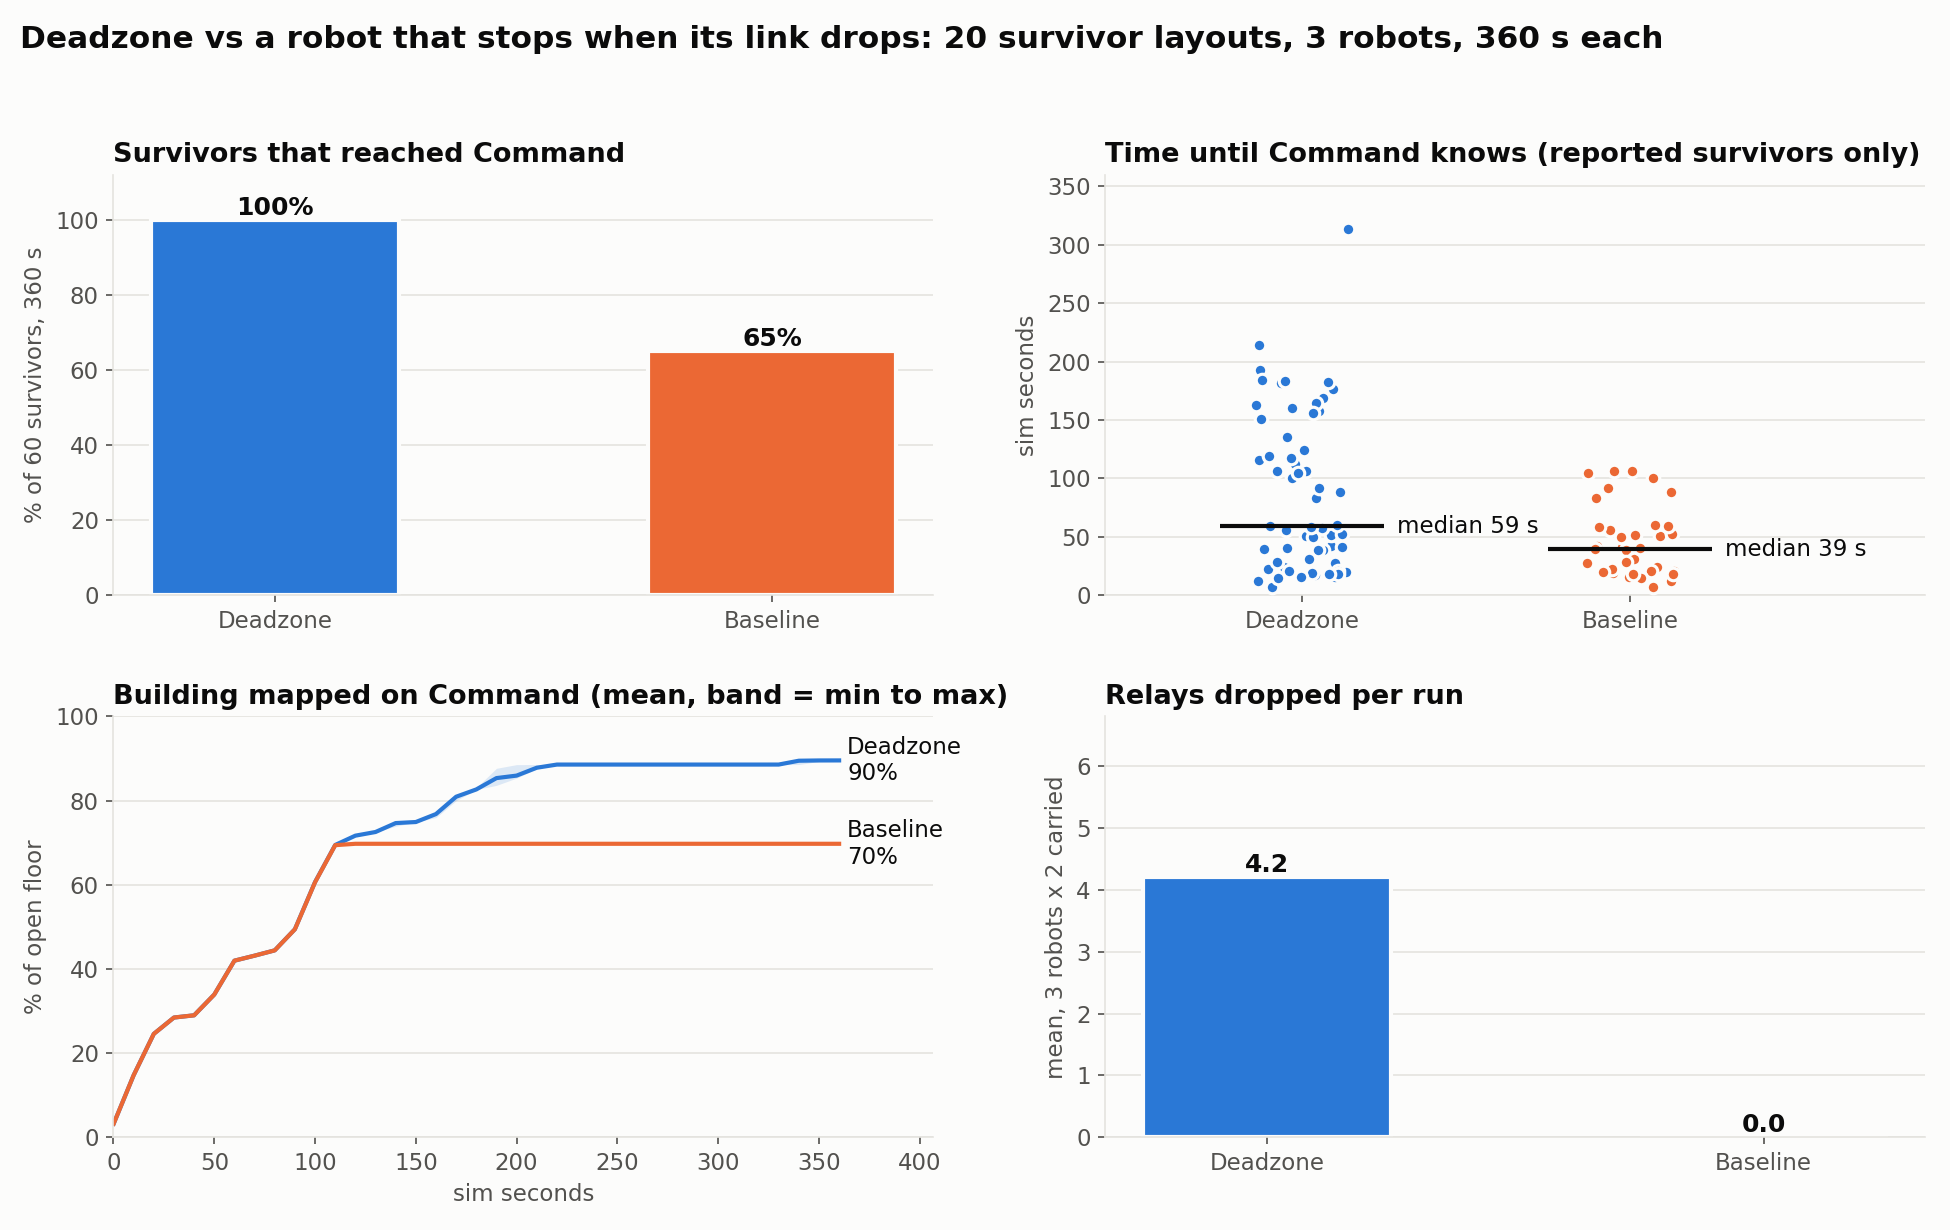
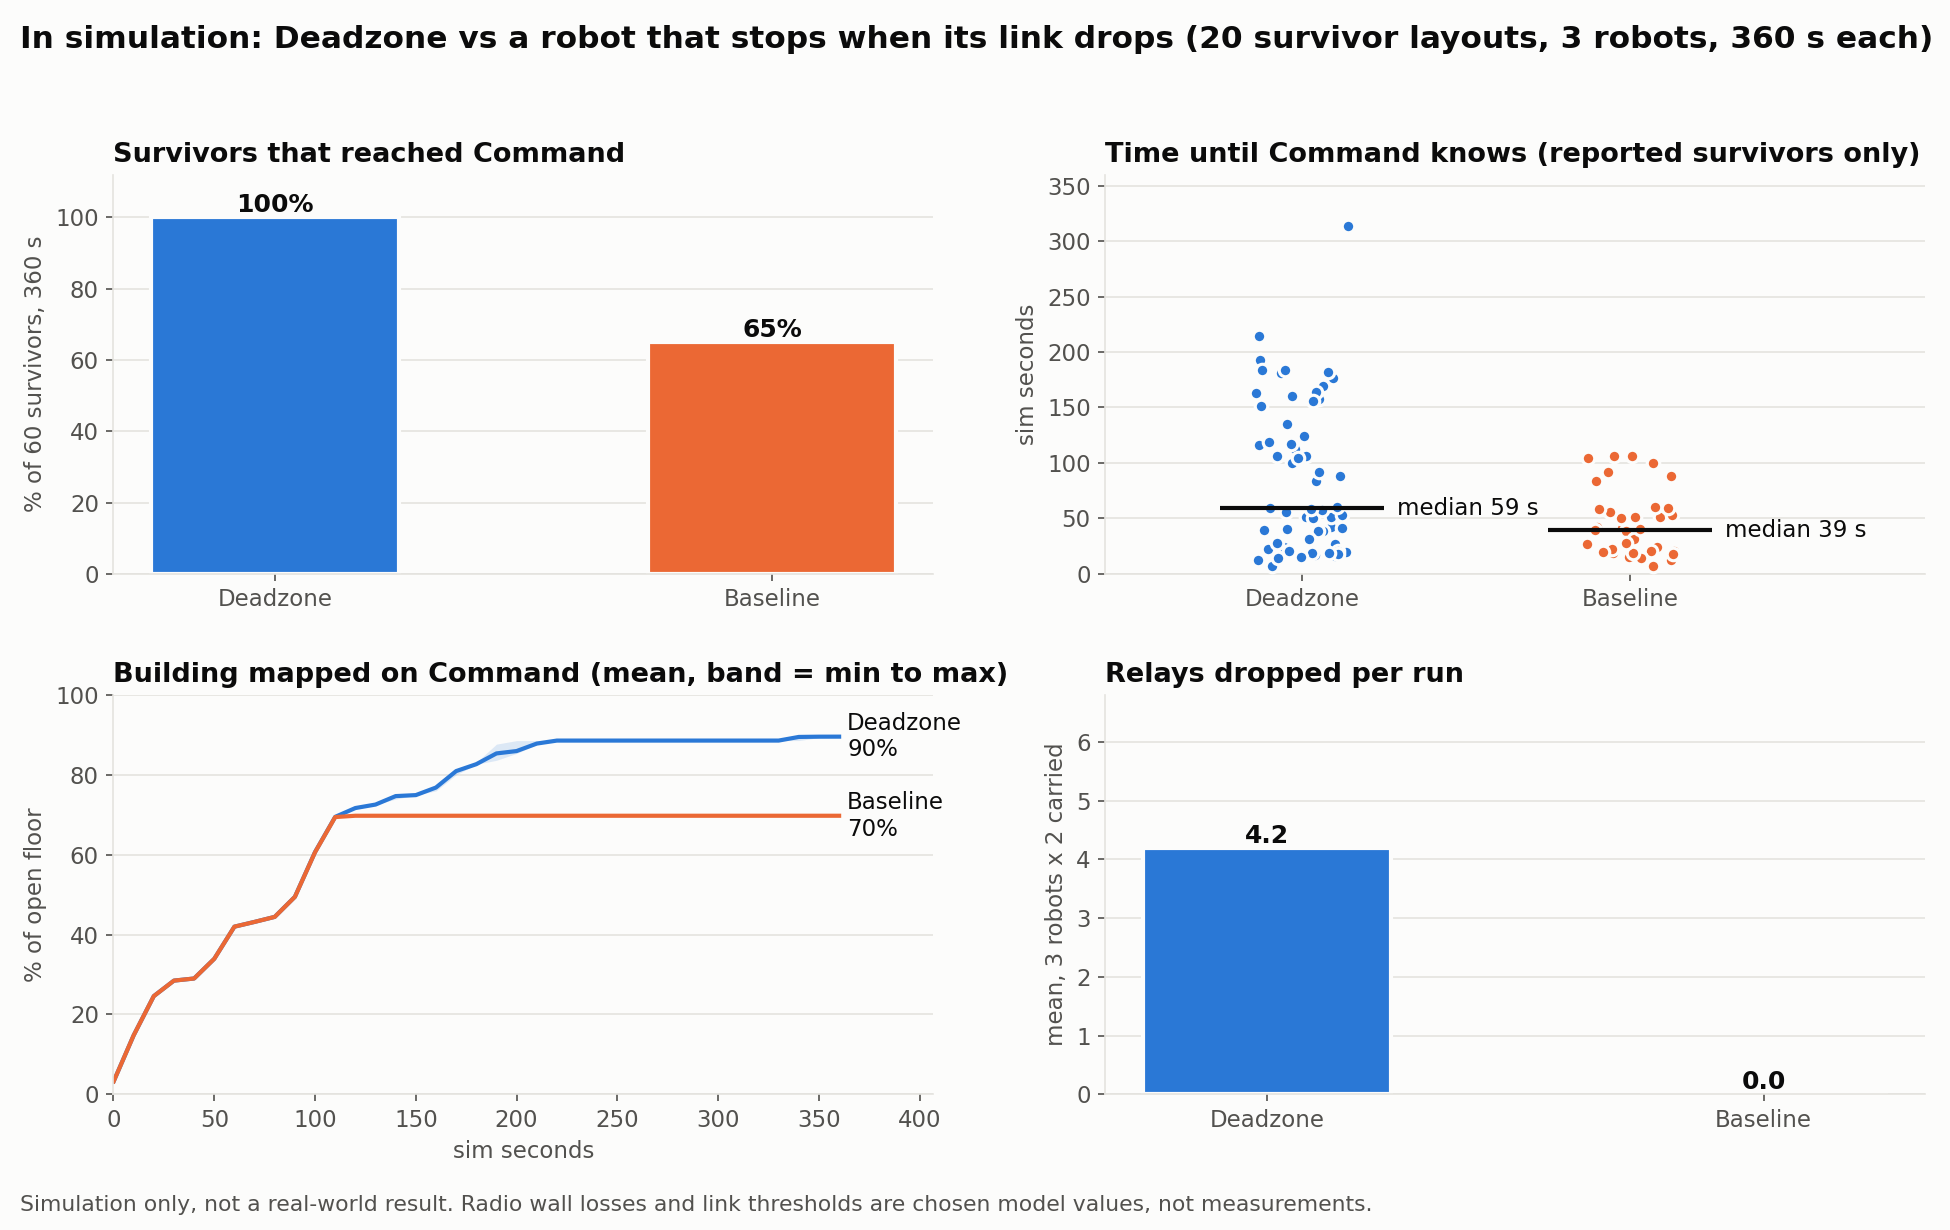
Label benchmark numbers "in simulation"
benchmark.md, the chart title and footnote, and a new DEVPOST section
mark every benchmark number as a simulation result with chosen radio
values. The labels live in ml/benchmark.py so reruns keep them.

diff --git a/ml/benchmark.py b/ml/benchmark.py
@@ -219,10 +219,13 @@ def chart(runs, summ, seconds, path):
     ax.set_ylabel(f"mean, {N_ROBOTS} robots x 2 carried")
 
     n = summ["deadzone"]["runs"]
-    fig.suptitle(f"Deadzone vs a robot that stops when its link drops: {n} survivor layouts, "
-                 f"{N_ROBOTS} robots, {seconds:.0f} s each", x=0.01, ha="left", fontsize=15,
+    fig.suptitle(f"In simulation: Deadzone vs a robot that stops when its link drops ({n} survivor "
+                 f"layouts, {N_ROBOTS} robots, {seconds:.0f} s each)", x=0.01, ha="left", fontsize=15,
                  fontweight="bold", color=INK)
-    fig.tight_layout(rect=(0, 0, 1, 0.95), h_pad=2.2, w_pad=3)
+    fig.text(0.01, 0.012, "Simulation only, not a real-world result. Radio wall losses and link "
+             "thresholds are chosen model values, not measurements.", ha="left", va="bottom",
+             fontsize=10.5, color=INK2)
+    fig.tight_layout(rect=(0, 0.035, 1, 0.95), h_pad=2.2, w_pad=3)
     fig.savefig(path, dpi=150, facecolor=SURFACE)
     plt.close(fig)
 
@@ -236,7 +239,12 @@ def report(runs, summ, seconds, elapsed, path):
     d, b = summ["deadzone"], summ["baseline"]
     demo = {r["mode"]: r for r in runs if r["seed"] is None}
     lines = [
-        "# Benchmark: Deadzone vs baseline",
+        "# Benchmark: Deadzone vs baseline (in simulation)",
+        "",
+        "> **Every number on this page is from our simulation, not from real robots or a real "
+        "building.** The radio model's wall losses (drywall 4 dB, brick 10, concrete 16, metal 22) "
+        "and link thresholds (up above -82 dBm, down below -88) are values we chose, not "
+        "measurements. The results show the idea works in our model; they are not a real-world result.",
         "",
         f"Generated by `py ml/benchmark.py` ({d['runs']} survivor layouts x 2 modes + the demo layout, "
         f"{N_ROBOTS} robots, {seconds:.0f} s of sim time each, detector: {runs[0]['detector']}, "
@@ -255,9 +263,9 @@ def report(runs, summ, seconds, elapsed, path):
         "",
         "![benchmark](benchmark.png)",
         "",
-        "## Summary",
+        "## Summary (in simulation)",
         "",
-        "| | Deadzone | Baseline |",
+        "| In simulation | Deadzone | Baseline |",
         "| --- | --- | --- |",
         f"| Survivors reported to Command | **{d['reported']} / {d['survivors']}** | {b['reported']} / {b['survivors']} |",
         f"| Survivors seen by a robot | {d['found']} / {d['survivors']} | {b['found']} / {b['survivors']} |",
@@ -273,9 +281,9 @@ def report(runs, summ, seconds, elapsed, path):
         "baseline: the survivors it never reports are the hard ones. Map coverage is the same for "
         "every layout because the building and the robots don't change, only where the survivors are.",
         "",
-        "## Demo layout (seed 7, authored survivors, no plan)",
+        "## Demo layout (in simulation: seed 7, authored survivors, no plan)",
         "",
-        "| | Deadzone | Baseline |",
+        "| In simulation | Deadzone | Baseline |",
         "| --- | --- | --- |",
     ]
     for sid in demo["deadzone"]["survivors"]:
@@ -295,9 +303,9 @@ def report(runs, summ, seconds, elapsed, path):
         f"| Mapped on Command | {100 * demo['deadzone']['coverage']:.0f}% | {100 * demo['baseline']['coverage']:.0f}% |",
         f"| Relays | {demo['deadzone']['relays']} | {demo['baseline']['relays']} |",
         "",
-        "## Per layout",
+        "## Per layout (in simulation)",
         "",
-        "| Seed | Deadzone reported | Deadzone mapped | Baseline reported | Baseline mapped |",
+        "| Seed (in simulation) | Deadzone reported | Deadzone mapped | Baseline reported | Baseline mapped |",
         "| --- | --- | --- | --- | --- |",
     ]
     seeds = sorted({r["seed"] for r in runs if r["seed"] is not None})

diff --git a/docs/team/history/rayan.md b/docs/team/history/rayan.md
@@ -3,13 +3,20 @@
 Owns `server/deadzone/robot/`, `ml/`, `data/floorplans/`. Only Rayan's sessions edit this file.
 
 ## Now
-- **Working on:** Version 2 plan (`docs/PLAN.md`, "Version 2 plan (7 PM Saturday)"). My items in order: `rayan/baseline` (PR #41 open), demo guard done (PR #36), `rayan/gradcam` (heatmaps + crop manifest for Yusuf), then aftershock robot reactions once Aziz posts the contract, then the judge-picked building generator (Q&A only).
+- **Working on:** Version 2 plan (`docs/PLAN.md`, "Version 2 plan (7 PM Saturday)"). My items in order: baseline done (PR #41), demo guard done (PR #36), `rayan/gradcam` (next) (heatmaps + crop manifest for Yusuf), then aftershock robot reactions once Aziz posts the contract, then the judge-picked building generator (Q&A only). **Later, only when Rayan asks (before the presentation):** refine the benchmark with more realistic data: radio wall losses from published measurements, a sensitivity sweep over the radio settings, random rubble.
 - **Works on main:** frontier exploration, 3-robot target sharing, relay auto-drop, A* return home, lost-link + 10 s reconnect hold, REPLANNING around rubble, rate monotonic scheduler with carry-over and deadline misses, full fault FSM (OVERCURRENT, STUCK, SAFE_STOP, LOW_BATTERY, TRAPPED), SAFE_STOP resume command (PR #13), robots follow dispatched plans (PR #15), robots perceive through the trained detector with decoys in the floor plan (PR #14 + #17). Seed 7, 3 robots: S1 found dark at 182.3 s, on Command at 187.3 s, 4 relays.
-- **In flight (not merged):** `rayan/baseline` (PR #41). On main: no attribution setting (PR #43), demo guard (PR #36), Version 2 plan (PR #34), pitch assets (PR #33), demo polish (PR #29), beacon_for tag (PR #32), rescue route + beacon (PR #25), `docs/DEMO.md`, `survivor_found.crop/conf`, `hotspot_rejected` (PR #19), PLAN.md Added scope (PR #21), detector hookup + decoys (PR #17).
+- **In flight (not merged):** `rayan/bench-sim-label`. On main: baseline mode + benchmark (PR #41), no attribution setting (PR #43), demo guard (PR #36), Version 2 plan (PR #34), pitch assets (PR #33), demo polish (PR #29), beacon_for tag (PR #32), rescue route + beacon (PR #25), `docs/DEMO.md`, `survivor_found.crop/conf`, `hotspot_rejected` (PR #19), PLAN.md Added scope (PR #21), detector hookup + decoys (PR #17).
 - **Blocked on / need from others:** Aziz + Yusuf: live baseline toggle (baseline entry). Aziz: quiet P-1 preload (demo-polish entry; or Yusuf), Gemini briefing (pitch-assets entry), yes/no on my review + soak test offers. Done by Aziz: `/crops`, `hello.detector`, `command.routes` (PR #28). Yusuf (all agreed, 3 AM): survivor figures, bigger robots, phone robot tap, liquid glass, rescue route drawing from `command.routes`, robot's-eye view (his). Done on main: decoys in thermal + none in fallback, O / U resume, detection cards, detector chip (waits for `hello.detector`). Details in the Blocked sections below; owners/targets in `docs/PLAN.md` Added scope. Keep `PEER_FRESH_S` in robot.py (sim.py imports it).
 - **Promises to others:** states final: DEPLOYING, EXPLORING, LOST_LINK_EXPLORING, RETURNING_TO_SIGNAL, RETURNING_HOME, REPLANNING, FAULT, DONE, plus WAITING_FOR_LINK (baseline mode only). Robot `mode`: deadzone (default) or baseline, `Robot.set_mode()`. Faults final: null, OVERCURRENT, STUCK, LOW_BATTERY, TRAPPED, SAFE_STOP. `tasks` slices as in PR #7, `missed` can now be true. Robot hooks: `inject_overcurrent(seconds=1.0)`, `inject_perception_overload(seconds=3.0, wcet_ms=400)`.
 
 ## Log
+
+### 2026-11-08 00:50 · rayan/bench-sim-label · Benchmark numbers labeled "in simulation"
+- **Did:** every benchmark number is now marked as a simulation result, never a real-world one. `docs/assets/benchmark.md`: "(in simulation)" in the title, every section and every table, plus a note at the top that the radio wall losses and link thresholds are chosen model values, not measurements. `docs/assets/benchmark.png`: title starts "In simulation:" and a footnote says "Simulation only, not a real-world result". `docs/DEVPOST.md`: new section "Does it actually help? (in simulation)" with the 60/60 vs 39/60 and 90% vs 70% results and the same caveat; the wall-loss numbers are marked as model values. `ml/benchmark.py` writes the labels, so a rerun keeps them (re-rendered from the saved JSON, numbers unchanged).
+- **Contract changes:** none
+- **Heads-up for others:** **Aziz, Yusuf: if you put any benchmark number on a slide, the board or in the Devpost, say "in simulation" next to it.** The radio numbers are ours, not measured.
+- **Later (only when Rayan asks, before the presentation):** refine the benchmark with more realistic data: radio wall losses from published measurements, a sensitivity sweep over the radio settings, random rubble. Not started.
+- **Next:** `rayan/gradcam`.
 
 ### 2026-11-08 00:25 · rayan/no-attribution · Claude Code attribution off for the repo
 - **Did:** `.claude/settings.json` now has `"attribution": {"commit": "", "pr": "", "sessionUrl": false}` (the current setting from the Claude Code settings docs; the deprecated `includeCoAuthoredBy` is not used). Claude Code sessions in this repo no longer add a `Co-Authored-By` trailer to commits, an attribution line to PR descriptions, or a session link. The existing hooks (team_sync, history_guard) are untouched. I used the object form rather than `"attribution": false` because older Claude Code versions reject `false` and skip the whole settings file, which would also switch off our hooks.

diff --git a/docs/DEVPOST.md b/docs/DEVPOST.md
@@ -39,7 +39,7 @@ Everything runs on a fixed seed, so the story happens on cue. Between cues the r
 
 **Robots.** Each robot only sees the world through its sensors (lidar, thermal camera, odometry) and its radio. It builds its own occupancy grid from lidar, picks frontiers to explore, and drives with A\*. Robots share their targets with each other so they don't all search the same room. Each robot carries 2 relays and drops one when its best upstream link falls between -81 and -76 dBm, at least 4 m from any other relay. That's before the link actually breaks. When a robot goes dark it keeps exploring for up to 60 s, or goes back to its last good spot as soon as it finds someone. Onboard there's a rate monotonic scheduler with 6 tasks (safety, motion, comms, mapping, perception, battery) at 1 ms resolution. Utilization is 0.377, under the 0.735 Liu and Layland bound. The fault protection handles wheel overcurrent, getting stuck, low battery and being trapped, and goes into safe stop after 3 faults in a minute.
 
-**Radio and network.** Signal strength uses a multi-wall path loss model. Every wall the signal crosses costs a fixed amount by material: drywall 4 dB, brick 10, concrete 16, metal 22. Links come up above -82 dBm and drop below -88, so they don't flicker. Messages are delay-tolerant bundles with per-hop custody: a node only deletes a bundle after the next node confirms it stored it, so nothing gets lost when a link dies mid-transfer. Survivor reports go first, then faults and routes, then telemetry, then map updates. Robots never forward for each other. Only relays and phones do.
+**Radio and network.** Signal strength uses a multi-wall path loss model. Every wall the signal crosses costs a fixed amount by material: drywall 4 dB, brick 10, concrete 16, metal 22 (values we picked for the model, not measurements). Links come up above -82 dBm and drop below -88, so they don't flicker. Messages are delay-tolerant bundles with per-hop custody: a node only deletes a bundle after the next node confirms it stored it, so nothing gets lost when a link dies mid-transfer. Survivor reports go first, then faults and routes, then telemetry, then map updates. Robots never forward for each other. Only relays and phones do.
 
 **Command post.** The command view only changes when a bundle actually arrives. We have a test that fails if it ever knows a survivor or a map cell before the bundle carrying it was delivered. The safety checker only uses what the command post knows. It predicts dead zones, battery reserve and reachability, and rejects unsafe plans with a clear reason.
 
@@ -53,6 +53,14 @@ Everything runs on a fixed seed, so the story happens on cue. Between cues the r
 - **Model:** MobileNetV3-Small pretrained on ImageNet, last layer swapped for person / not person, 5 epochs. The model file is 6 MB, small enough to run on the robot.
 - **Results on 1,200 held-out images (threshold 0.6):** 96.2% accuracy, 96.3% precision, 96.0% recall. Confusion matrix: 576 people found, 24 missed, 578 backgrounds rejected, 22 false alarms.
 - **In the sim:** every hot spot the thermal camera sees gets cropped and scored on the robot. The survivors and decoys in the building use held-out crops, so the radiator, engine and coffee machine get rejected by the real model, not by a rule. If PyTorch isn't installed the robots fall back to a simple sim sensor and the decoys turn off, so a missing library can never put a radiator on screen as a person.
+
+## Does it actually help? (in simulation)
+
+We added a "without Deadzone" baseline: the same robots with the same mapping and planning, but each one stops and waits as soon as its link drops and carries no relays, like a tethered or teleoperated robot. Then we ran both versions in our simulator on 20 random survivor layouts (3 robots, 6 minutes of sim time each).
+
+**In simulation**, Deadzone got 60 of 60 survivors to the command post and the baseline got 39 of 60. The command post had 90% of the building mapped with Deadzone and 70% with the baseline. On our demo layout the baseline never finds the survivor in the steel cage.
+
+These are simulation results, not real-world ones. The radio model's wall losses and link thresholds are values we chose, not measurements, so this shows the idea works in our model, not how much it would help in a real collapse. The script and the full table are in the repo (`ml/benchmark.py`, `docs/assets/benchmark.md`).
 
 ## Challenges we ran into
 

diff --git a/docs/assets/benchmark.md b/docs/assets/benchmark.md
@@ -1,4 +1,6 @@
-# Benchmark: Deadzone vs baseline
+# Benchmark: Deadzone vs baseline (in simulation)
+
+> **Every number on this page is from our simulation, not from real robots or a real building.** The radio model's wall losses (drywall 4 dB, brick 10, concrete 16, metal 22) and link thresholds (up above -82 dBm, down below -88) are values we chose, not measurements. The results show the idea works in our model; they are not a real-world result.
 
 Generated by `py ml/benchmark.py` (20 survivor layouts x 2 modes + the demo layout, 3 robots, 360 s of sim time each, detector: model, 249 s wall time).
 
@@ -9,9 +11,9 @@ Each seed moves the 3 survivors to random reachable spots in collapse_01 (at lea
 
 ![benchmark](benchmark.png)
 
-## Summary
+## Summary (in simulation)
 
-| | Deadzone | Baseline |
+| In simulation | Deadzone | Baseline |
 | --- | --- | --- |
 | Survivors reported to Command | **60 / 60** | 39 / 60 |
 | Survivors seen by a robot | 60 / 60 | 40 / 60 |
@@ -23,9 +25,9 @@ Each seed moves the 3 survivors to random reachable spots in collapse_01 (at lea
 
 Median times only count survivors that were reported or seen, so they flatter the baseline: the survivors it never reports are the hard ones. Map coverage is the same for every layout because the building and the robots don't change, only where the survivors are.
 
-## Demo layout (seed 7, authored survivors, no plan)
+## Demo layout (in simulation: seed 7, authored survivors, no plan)
 
-| | Deadzone | Baseline |
+| In simulation | Deadzone | Baseline |
 | --- | --- | --- |
 | S1 | reported 181 s | not found |
 | S2 | reported 200 s | not found |
@@ -33,9 +35,9 @@ Median times only count survivors that were reported or seen, so they flatter th
 | Mapped on Command | 90% | 70% |
 | Relays | 5 | 0 |
 
-## Per layout
+## Per layout (in simulation)
 
-| Seed | Deadzone reported | Deadzone mapped | Baseline reported | Baseline mapped |
+| Seed (in simulation) | Deadzone reported | Deadzone mapped | Baseline reported | Baseline mapped |
 | --- | --- | --- | --- | --- |
 | 1 | 3 / 3 | 90% | 1 / 3 | 70% |
 | 2 | 3 / 3 | 90% | 3 / 3 | 70% |
